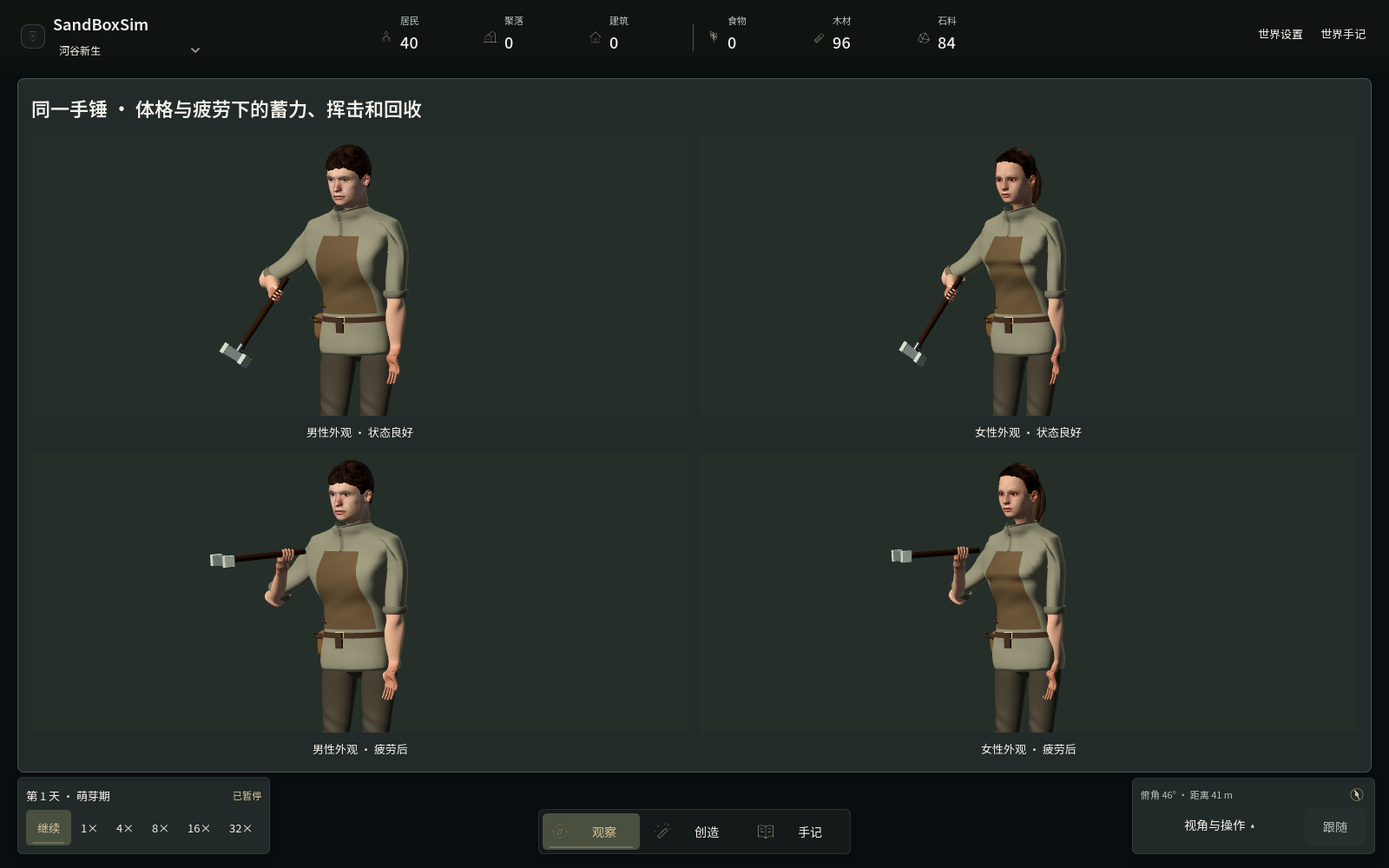
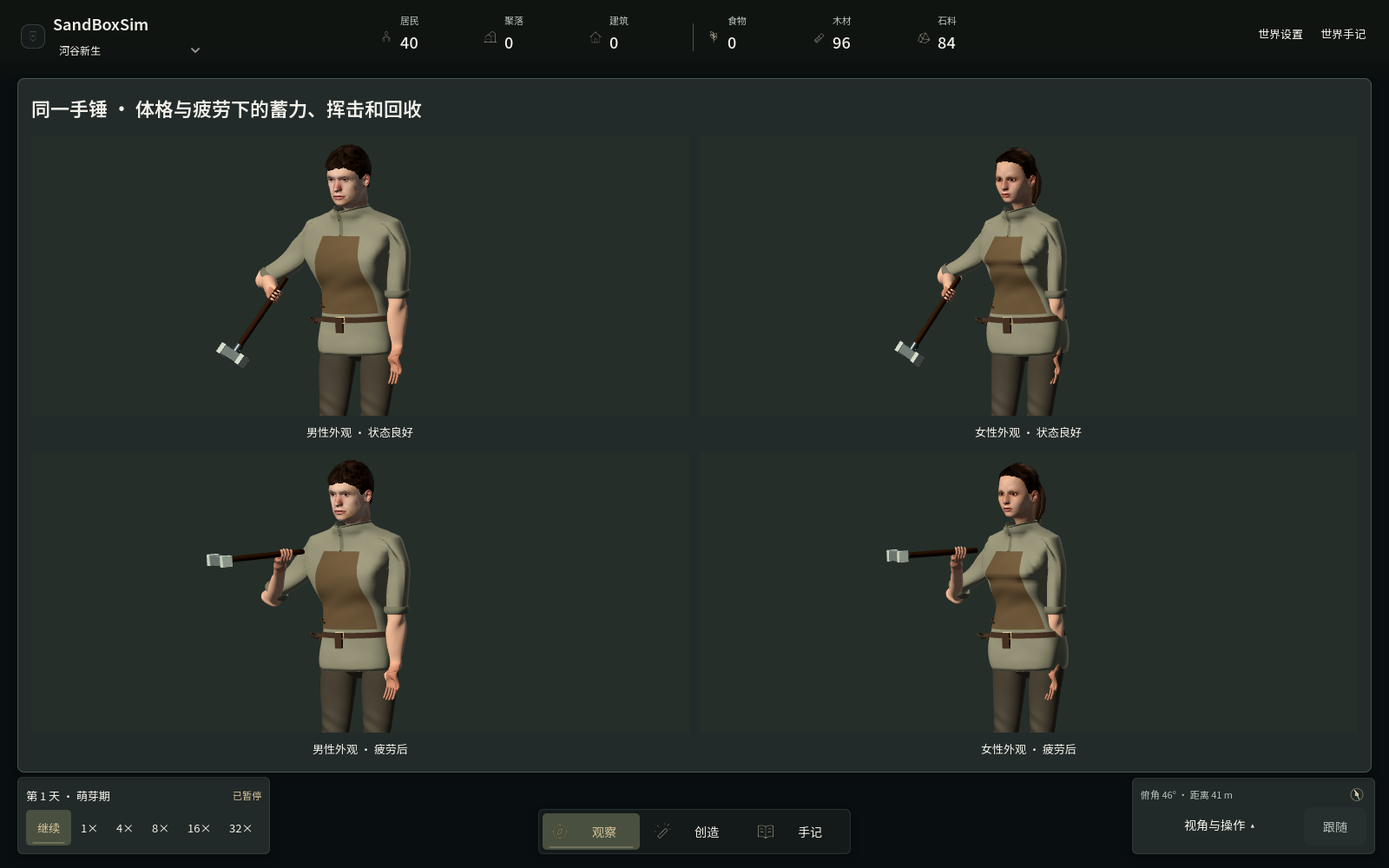
Refine adult facial regions and clothed body contours

diff --git a/src/SandBoxSim.Godot/NatureModels.BodyFrame.cs b/src/SandBoxSim.Godot/NatureModels.BodyFrame.cs
@@ -47,7 +47,7 @@ internal sealed partial class NatureModels
             {
                 // Cloth bridges local source hollows. Filter the ratio field
                 // before fitting, rather than embossing small body features.
-                var raw=new float[65*128];for(int i=0;i<raw.Length;i++)raw[i]=Math.Clamp(_frameFeminine[i]/_frameMale[i],.86f,1.16f);
+                var raw=new float[65*128];for(int i=0;i<raw.Length;i++)raw[i]=Math.Clamp(_frameFeminine[i]/_frameMale[i],.78f,1.20f);
                 _frameRatios=new float[raw.Length];
                 for(int rowIndex=0;rowIndex<65;rowIndex++)for(int column=0;column<128;column++)
                 {
@@ -64,12 +64,17 @@ internal sealed partial class NatureModels
         }
         // Restrained clothed waist/hip silhouette; arm roots and leg lengths
         // stay fixed. This is a presentation fit, not a demographic classifier.
-        float hip=MathF.Exp(-MathF.Pow((point.Y-.83f)/.085f,2));
-        float waist=MathF.Exp(-MathF.Pow((point.Y-1.02f)/.07f,2));
+        // The iliac/upper-thigh volume must survive the outer actor scale.
+        // The old uniform narrowing also narrowed the pelvis, erasing the
+        // shoulder-to-hip distinction in the clothed silhouette.
+        float hip=MathF.Exp(-MathF.Pow((point.Y-.86f)/.11f,2));
+        float waist=MathF.Exp(-MathF.Pow((point.Y-1.00f)/.085f,2));
         float limb=Mathf.SmoothStep(.135f,.185f,MathF.Abs(point.X))*Mathf.SmoothStep(.88f,.96f,point.Y);
-        float lateral=1+(.10f*hip-.055f*waist)*(1-limb);
-        float shoulder=1-.075f*MathF.Max(limb,Mathf.SmoothStep(1.12f,1.22f,point.Y));
-        return new(point.X*Mathf.Lerp(1,ratio,.35f)*lateral*shoulder,point.Y,point.Z*ratio);
+        float lateral=1+(.20f*hip-.085f*waist)*(1-limb);
+        float shoulder=1-.12f*MathF.Max(limb,Mathf.SmoothStep(1.12f,1.22f,point.Y));
+        float sideChest=1-.045f*MathF.Exp(-MathF.Pow((point.Y-1.12f)/.09f,2))*(1-limb);
+        float depth=1+(.055f*hip-.065f*waist)*(1-limb);
+        return new(point.X*Mathf.Lerp(1,ratio,.65f)*lateral*shoulder*sideChest,point.Y,point.Z*ratio*depth);
     }
     private Mesh FrameMesh(Mesh source,Transform3D space)
     {
@@ -104,7 +109,7 @@ internal sealed partial class NatureModels
             foreach(Node child in parent.GetChildren())
             {
                 if(child is not Node3D node||node==rig.Head||node==rig.Arms[0]||node==rig.Arms[1])continue;
-                if(node==rig.Holster||node==rig.PackMount)
+                if(node==rig.Holster||node==rig.PackMount||node==rig.SatchelMount)
                 {
                     var origin=space*node.Position;var fitted=FramePoint(origin);
                     if(node==rig.PackMount)fitted.Z+=FramePoint(new Vector3(0,1.15f,origin.Z)).Z-origin.Z;
@@ -127,7 +132,7 @@ internal sealed partial class NatureModels
         if(BodyFrame==0)return;
         // The fitted sleeve vertices, joint rest and inverse bind must move
         // together. Scaling the mesh alone leaves a male-width moving rig.
-        rig.ShoulderHalfWidth=.202f*.925f;
+        rig.ShoulderHalfWidth=.202f*.88f;
         var skin=new Skin();skin.AddBind(0,Transform3D.Identity);
         for(int side=0;side<2;side++)
         {
@@ -144,6 +149,7 @@ internal sealed partial class NatureModels
         var female=Resident(42,false,SandBoxSim.Core.Agents.JobType.Gatherer);
         try
         {
+            ValidateAdultContourSections(male,female);
             if(male.DetailedBodyMesh==female.DetailedBodyMesh||male.DistantBodyMesh==female.DistantBodyMesh)
                 throw new InvalidOperationException("Adult frames share their fitted body cache");
             if(female.ShoulderHalfWidth>=male.ShoulderHalfWidth-.01f||female.DetailedBodySkin==male.DetailedBodySkin)
@@ -151,6 +157,9 @@ internal sealed partial class NatureModels
             for(int side=0;side<2;side++)
                 if(!(female.ShoulderSkeleton.GetBoneRest(side+1)*female.DetailedBodySkin.GetBindPose(side+1)).IsEqualApprox(Transform3D.Identity))
                     throw new InvalidOperationException("Fitted shoulder rest and inverse bind disagree");
+            if(male.SatchelMount==null||female.SatchelMount==null||male.SatchelMount.Scale!=Vector3.One||female.SatchelMount.Scale!=Vector3.One||
+                male.SatchelMount.GetChild<MeshInstance3D>(0).Mesh.GetAabb()!=female.SatchelMount.GetChild<MeshInstance3D>(0).Mesh.GetAabb())
+                throw new InvalidOperationException("Body fitting stretches the rigid satchel instead of adapting its mount");
             foreach(var rig in new[]{male,female})
                 if(rig.Scale.X*rig.Head.Scale.X<.985f||rig.Scale.X*rig.Head.Scale.X>1.035f)
                     throw new InvalidOperationException("Body width distorts the adult head proportions");
@@ -159,7 +168,7 @@ internal sealed partial class NatureModels
             {
                 foreach(Node child in parent.GetChildren())
                 {
-                    if(child is not Node3D node||node==female.Head||node==female.Arms[0]||node==female.Arms[1]||node==female.Holster||node==female.PackMount)continue;
+                    if(child is not Node3D node||node==female.Head||node==female.Arms[0]||node==female.Arms[1]||node==female.Holster||node==female.PackMount||node==female.SatchelMount)continue;
                     if(node is MeshInstance3D mesh&&mesh!=female.BodySkin&&mesh.HasMeta("DistantMesh"))
                     {
                         var far=(Mesh)mesh.GetMeta("DistantMesh").AsGodotObject();
@@ -201,5 +210,77 @@ internal sealed partial class NatureModels
         }
         finally{male.Free();female.Free();_faceVariant=previous;_facePoints=null;_faceIndices=null;}
         GD.Print("BODY_FRAMES_PASS: source chest/waist/hip presentation, separate near/far caches, bounded forearm fit/Jacobian, exact wrist and animated limb lengths");
+    }
+    private static float ClothSectionWidth(Mesh mesh,float height,Color? cloth=null)
+    {
+        var arrays=mesh.SurfaceGetArrays(0);var points=arrays[(int)Mesh.ArrayType.Vertex].AsVector3Array();
+        var indices=arrays[(int)Mesh.ArrayType.Index].AsInt32Array();
+        var detail=arrays[(int)Mesh.ArrayType.TexUV2].AsVector2Array();
+        var colours=arrays[(int)Mesh.ArrayType.Color].AsColorArray();
+        float low=float.PositiveInfinity,high=float.NegativeInfinity;
+        for(int i=0;i<indices.Length;i+=3)
+        {
+            bool body=true;
+            for(int j=0;j<3;j++)
+            {
+                int v=indices[i+j];
+                // Exclude sleeves using their authored pattern coordinates;
+                // distant batching preserves dye in vertex colour instead.
+                if(detail.Length==points.Length&&detail[v].X>0)body=false;
+                if(cloth.HasValue&&(colours.Length!=points.Length||!colours[v].IsEqualApprox(cloth.Value)))body=false;
+            }
+            if(!body)continue;
+            for(int edge=0;edge<3;edge++)
+            {
+                var a=points[indices[i+edge]];var b=points[indices[i+(edge+1)%3]];
+                if((a.Y-height)*(b.Y-height)>0||MathF.Abs(b.Y-a.Y)<1e-8f)continue;
+                float x=Mathf.Lerp(a.X,b.X,(height-a.Y)/(b.Y-a.Y));
+                low=MathF.Min(low,x);high=MathF.Max(high,x);
+            }
+        }
+        if(!float.IsFinite(low)||!float.IsFinite(high))throw new InvalidOperationException("Adult garment has no measured cross-section");
+        return high-low;
+    }
+    private void ValidateAdultContourSections(ResidentRig male,ResidentRig female)
+    {
+        // Measure the final render meshes in world units, after all fitting and
+        // outer scale. A wider nominal pelvis is insufficient if actor scaling
+        // erases it, or the LOD silently restores the common source shape.
+        foreach(bool distant in new[]{false,true})
+        {
+            Mesh m=distant?male.DistantBodyMesh:male.DetailedBodyMesh,f=distant?female.DistantBodyMesh:female.DetailedBodyMesh;
+            Color? maleDye=distant?((ShaderMaterial)male.DetailedBodyMesh.SurfaceGetMaterial(0)).GetShaderParameter("dye").AsColor():null;
+            Color? femaleDye=distant?((ShaderMaterial)female.DetailedBodyMesh.SurfaceGetMaterial(0)).GetShaderParameter("dye").AsColor():null;
+            float maleHip=ClothSectionWidth(m,.82f,maleDye)*male.Scale.X,femaleHip=ClothSectionWidth(f,.82f,femaleDye)*female.Scale.X;
+            float maleWaist=ClothSectionWidth(m,1.00f,maleDye)*male.Scale.X,femaleWaist=ClothSectionWidth(f,1.00f,femaleDye)*female.Scale.X;
+            float maleShoulder=male.ShoulderHalfWidth*2*male.Scale.X,femaleShoulder=female.ShoulderHalfWidth*2*female.Scale.X;
+            if(femaleHip/maleHip<1.01f||femaleHip/maleHip>1.25f||femaleWaist/femaleHip>=maleWaist/maleHip-.055f||
+                femaleShoulder/femaleHip>=maleShoulder/maleHip-.12f)
+                throw new InvalidOperationException($"Adult silhouette difference lost in {(distant?"distant":"near")} mesh: hip {femaleHip/maleHip:F3}, waist/hip {maleWaist/maleHip:F3}/{femaleWaist/femaleHip:F3}, shoulder/hip {maleShoulder/maleHip:F3}/{femaleShoulder/femaleHip:F3}");
+            GD.Print($"ADULT_CONTOUR_SECTION: {(distant?"far":"near")} shoulder/hip={maleShoulder/maleHip:F3}/{femaleShoulder/femaleHip:F3}, waist/hip={maleWaist/maleHip:F3}/{femaleWaist/femaleHip:F3}, hip width={maleHip:F3}/{femaleHip:F3} m");
+        }
+        // All eight adult identities use the same smooth mapping for normals
+        // and attached facial parts. Test local invertibility across the actual
+        // authored skin, rather than only checking a few designed landmarks.
+        int previous=_faceVariant;
+        try
+        {
+            for(_faceVariant=0;_faceVariant<8;_faceVariant++)
+            {
+                var source=HumanData().Head.Points;
+                for(int i=0;i<source.Length;i+=11)
+                {
+                    var p=source[i];const float h=.0001f;
+                    var dx=(HumanPoint(p+Vector3.Right*h)-HumanPoint(p-Vector3.Right*h))/(2*h);
+                    var dy=(HumanPoint(p+Vector3.Up*h)-HumanPoint(p-Vector3.Up*h))/(2*h);
+                    var dz=(HumanPoint(p+Vector3.Back*h)-HumanPoint(p-Vector3.Back*h))/(2*h);
+                    float determinant=new Basis(dx,dy,dz).Determinant();
+                    if(!float.IsFinite(determinant)||determinant<.65f||determinant>1.45f)
+                        throw new InvalidOperationException("Adult regional face fit folds or over-stretches the source surface");
+                }
+            }
+        }
+        finally{_faceVariant=previous;}
+        GD.Print("ADULT_CONTOURS_PASS: final near/far clothed sections retain shoulder/pelvis and waist/hip differences; eight adult face maps remain locally invertible");
     }
 }

diff --git a/src/SandBoxSim.Godot/NatureModels.HumanAsset.cs b/src/SandBoxSim.Godot/NatureModels.HumanAsset.cs
@@ -124,10 +124,10 @@ internal sealed partial class NatureModels
         if(!ChildHead)
         {
             float jaw=MathF.Exp(-MathF.Pow((y+.065f)/.035f,2));
-            float amount=HumanFamily==2?-.035f:.060f;
+            float amount=HumanFamily==2?-.060f:.085f;
             derivative=derivative*(1+amount*jaw)-width*amount*jaw*2*(y+.065f)/(.035f*.035f);
             width*=1+amount*jaw;
-            float neck=MathF.Exp(-MathF.Pow((y+.112f)/.026f,2)),neckAmount=HumanFamily==2?-.035f:.080f;
+            float neck=MathF.Exp(-MathF.Pow((y+.112f)/.026f,2)),neckAmount=HumanFamily==2?-.055f:.10f;
             derivative=derivative*(1+neckAmount*neck)-width*neckAmount*neck*2*(y+.112f)/(.026f*.026f);
             width*=1+neckAmount*neck;
         }
@@ -153,16 +153,27 @@ internal sealed partial class NatureModels
             float cheek=MathF.Exp(-MathF.Pow((MathF.Abs(p.X)-.045f)/.022f,2)-MathF.Pow((p.Y+.018f)/.030f,2));
             float forehead=MathF.Exp(-MathF.Pow((p.Y-.070f)/.035f,2));
             float nose=MathF.Exp(-MathF.Pow(p.X/.018f,4)-MathF.Pow((p.Y+.008f)/.028f,2));
-            z-=front*(HumanFamily==2?-.0008f*brow+.0018f*cheek+.0013f*forehead:.0028f*brow+.0016f*chin+.0010f*nose-.0005f*cheek);
+            // Regional soft-tissue fit, in metres, rather than scaling an
+            // entire head. Preserve the eye aperture and use this very same
+            // map for eyelids, lips, hair, landmarks and the distant head.
+            z-=front*(HumanFamily==2?-.0012f*brow+.0030f*cheek+.0021f*forehead:.0040f*brow+.0028f*chin+.0016f*nose-.0007f*cheek);
             if(HumanFamily==2)
             {
                 // Shorten the lower facial segment without lifting the neck
                 // seam. Eye/lip parts and landmarks use this same mapping.
                 float lower=Mathf.SmoothStep(.025f,.090f,-p.Y)*(1-Mathf.SmoothStep(.105f,.145f,-p.Y));
-                y+=.0035f*lower;
+                y+=.0045f*lower;
             }
         }
-        return new(p.X*HumanWidth(p.Y,out _),y,z);
+        float x=p.X*HumanWidth(p.Y,out _);
+        if(!ChildHead)
+        {
+            float front=Mathf.SmoothStep(.025f,.060f,-p.Z);
+            float nasal=MathF.Exp(-MathF.Pow(p.X/.022f,4)-MathF.Pow((p.Y+.018f)/.035f,2));
+            float malar=MathF.Exp(-MathF.Pow((MathF.Abs(p.X)-.048f)/.025f,2)-MathF.Pow((p.Y+.020f)/.028f,2));
+            x*=1+front*(HumanFamily==2?-.045f*nasal+.022f*malar:.030f*nasal);
+        }
+        return new(x,y,z);
     }
 
     private Vector3 HumanNormal(Vector3 p,Vector3 n)

diff --git a/src/SandBoxSim.Godot/WorldView3D.cs b/src/SandBoxSim.Godot/WorldView3D.cs
@@ -451,7 +451,7 @@ public partial class WorldView3D : MapView
             ["landscapeSurface"]="coverage-mosaic-v6",["habitatDetail"]="stratified-meadow-v10",["vegetationSurface"]="engine-faced-v2",
             ["architecture"]="inset-joinery-v13",["garmentMaterial"]="relaxed-yoke-linen-v14",["shoulderMotion"]="supported-reach-v1",["reachMotion"]="palm-trajectory-v2",["interface"]="resident-framing-memory-v28",["wildFlora"]="arched-bramble-v1",["fontProfile"]="noto-packaged-v1",["interfaceVisible"]=Game.InterfaceVisible,
             ["animalPresentation"]="source-paw-contours-v11",["residentSurface"]="linear-skin-v9",["workEffort"]="relative-load-v1",["toolMotion"]="velocity-continuity-v1",["bodySupport"]="planted-sagittal-v1",["facialTiming"]="phrase-blink-v1",["handSurface"]="anatomical-regions-v1",["handlingMotion"]="cargo-priority-v3",["toolGeometry"]="forged-heads-v2",["cargoGeometry"]="bound-timber-v2",["equipmentAttachment"]="surface-holster-v2",["socialMotion"]="phrase-coordinated-v3",["waterSurface"]="constrained-bank-v6",["wristContour"]="source-oval-v1",
-            ["hairline"]="source-root-v1",["reedPanicle"]="connected-axis-v1",["bodyFrame"]="shoulder-bound-v2",["forearmProfile"]="tapered-volume-v1" };
+            ["hairline"]="source-root-v1",["reedPanicle"]="connected-axis-v1",["bodyFrame"]="regional-contours-v3",["faceContour"]="regional-adult-v2",["forearmProfile"]="tapered-volume-v1" };
         if(galleries is {Length:>0})quality["galleries"]=galleries;
         if(portrait!=null)quality["portrait"]=portrait;
         return quality;

diff --git a/src/SandBoxSim.Godot/NatureModels.Residents.cs b/src/SandBoxSim.Godot/NatureModels.Residents.cs
@@ -190,7 +190,6 @@ internal sealed partial class NatureModels
         var buckleCorners=new[]{buckle+new Vector3(-.0205f,-.0155f,0),buckle+new Vector3(.0205f,-.0155f,0),buckle+new Vector3(.0205f,.0155f,0),buckle+new Vector3(-.0205f,.0155f,0)};
         for(int edge=0;edge<4;edge++)FineBeam(rig.Torso,buckleCorners[edge],buckleCorners[(edge+1)%4],.004f,"#b8a17b");
         FineBeam(rig.Torso,buckle+new Vector3(-.006f,0,-.002f),buckle+new Vector3(.0205f,0,-.002f),.003f,"#b8a17b");
-        Detail(rig.Torso, "capsule", new Vector3(.23f, .7f, .075f), new Vector3(.075f, .065f, .055f), "#725b40");
         // The attributed head already includes a continuous anatomical neck.
         // A second torso-mounted neck intersects it when the head turns.
         // Expose the authored neck instead of crowding the jaw into the collar.
@@ -262,7 +261,9 @@ internal sealed partial class NatureModels
         if (child) { rig.Scale = new Vector3(.72f, .65f, .72f); rig.Head.Scale = Vector3.One * 1.15f; }
         else
         {
-            float frame=HumanFamily==2?.88f:.94f;
+            // Local chest/waist/pelvis fitting provides the silhouette. Keep
+            // outer width close enough that it does not erase the hip volume.
+            float frame=HumanFamily==2?.94f:.98f;
             rig.Scale = new Vector3(frame*(1 + ((variation >> 8) % 5 - 2f) * .025f), 1.005f + ((variation >> 12) % 5) * .012f, 1);
             rig.Head.Scale*=new Vector3(1/rig.Scale.X,1,1);
         }

diff --git a/src/SandBoxSim.Godot/NatureModels.Tailoring.cs b/src/SandBoxSim.Godot/NatureModels.Tailoring.cs
@@ -137,10 +137,11 @@ internal sealed partial class NatureModels
         {
             Sculpt(rig.Torso,FittedRibbon("shoulder-front",.81f,1.20f),Vector3.Zero,LeatherSurface("#665141"));
             Sculpt(rig.Torso,FittedRibbon("shoulder-back",.81f,1.20f,true),Vector3.Zero,LeatherSurface("#665141"));
-            var pouch=new Vector3(.23f,.80f,-.008f);
-            Sculpt(rig.Torso,SatchelBody(),pouch,LeatherSurface("#786346"),new(-MathF.PI/2,0,0));
-            Sculpt(rig.Torso,SatchelFlap(),pouch,LeatherSurface("#786346"));
-            Detail(rig.Torso,"sphere",pouch+new Vector3(0,.030f,SatchelDepth(0,.030f)-.005f),new(.010f,.010f,.008f),"#514237");
+            var pouch=rig.SatchelMount=new Node3D {Name="SatchelMount",Position=new(.23f,.80f,-.008f)};
+            rig.Torso.AddChild(pouch);
+            Sculpt(pouch,SatchelBody(),Vector3.Zero,LeatherSurface("#786346"),new(-MathF.PI/2,0,0));
+            Sculpt(pouch,SatchelFlap(),Vector3.Zero,LeatherSurface("#786346"));
+            Detail(pouch,"sphere",new(0,.030f,SatchelDepth(0,.030f)-.005f),new(.010f,.010f,.008f),"#514237");
         }
     }
     private void ValidateGarmentCuts()

diff --git a/src/SandBoxSim.Godot/NatureModels.Proportions.cs b/src/SandBoxSim.Godot/NatureModels.Proportions.cs
@@ -47,7 +47,7 @@ internal sealed partial class NatureModels
             foreach(Node child in parent.GetChildren())
             {
                 if(child is not Node3D node)continue;
-                if(node==rig.Head||node==rig.Arms[0]||node==rig.Arms[1]||node==rig.Holster||node==rig.PackMount)
+                if(node==rig.Head||node==rig.Arms[0]||node==rig.Arms[1]||node==rig.Holster||node==rig.PackMount||node==rig.SatchelMount)
                 {node.Position=ResidentRig.BodyPoint(node.Position);continue;}
                 var transform=space*node.Transform;
                 if(node is MeshInstance3D part&&part.Mesh!=null)part.Mesh=ProportionedMesh(part.Mesh,transform,true);

diff --git a/src/SandBoxSim.Godot/ResidentRig.cs b/src/SandBoxSim.Godot/ResidentRig.cs
@@ -11,7 +11,7 @@ internal partial class ResidentRig : Node3D
     public Node3D Torso=null!,Head=null!,Holster=null!;
     internal const float NeckPivotY=-.105f;
     internal Vector3 HeadRest;
-    public Node3D? Headwear,Grip,PackMount;
+    public Node3D? Headwear,Grip,PackMount,SatchelMount;
     public bool IsChild;
     public ResidentTool DefaultTool;
     public ResidentTool CurrentTool {get;private set;}

diff --git a/docs/development/models.md b/docs/development/models.md
@@ -120,7 +120,7 @@
 
 ## 成人体型与男女外观
 
-成人头部横向尺寸独立于身体的随机宽度，避免较窄体型把头脸一并压成长条；身份变化仍保留小幅头宽与头高差异。成年来源形体之上，男性外观保留较宽的下颌、较明显的眉弓、鼻梁与颏部，女性外观保留较轻的眉弓、较饱满的眼下颊部与更垂直的前额。下颌横向局部系数分别为 +6%／−3.5%，颈部局部系数为 +8%／−3.5%；女性下脸段最多上移 3.5 毫米，颈部接缝保持原高度。眉毛分别采用较平、较轻弧度的贴面路径。局部前后变化不超过约 3 毫米，皮肤、眼口、发片和挂点共用 `HumanPoint`，法线使用同一映射的逆转置。儿童不套用这些成人局部变化。
+成人头部横向尺寸独立于身体的随机宽度，避免较窄体型把头脸一并压成长条；身份变化仍保留小幅头宽与头高差异。成年来源形体之上，男性外观保留较宽的下颌、较明显的眉弓、鼻梁与颏部，女性外观保留较轻的眉弓、较饱满的眼下颊部与更垂直的前额。下颌横向局部系数分别为 +8.5%／−6%，颈部局部系数为 +10%／−5.5%；女性下脸段最多上移 4.5 毫米，颈部接缝保持原高度。鼻翼区域分别作最多 +3%／−4.5% 的局部宽度修饰，女性颊侧另有最多 2.2% 的柔和体积变化；眼球不作放大。眉弓、颏部、颊部和额头使用毫米尺度的连续场叠加，区别于整张脸统一放大或收窄。眉毛分别采用较平、较轻弧度的贴面路径。皮肤、眼口、发片和挂点共用 `HumanPoint`，法线使用同一映射的逆转置；自检在八种成人来源表面采样局部雅可比，拒绝翻折及过度拉伸。儿童不套用这些成人局部变化。
 
 脸型设计参考[三维面部区域形态研究](https://pmc.ncbi.nlm.nih.gov/articles/PMC10335371/)、[2022 年成人面部三维研究](https://pubmed.ncbi.nlm.nih.gov/35357226/)和[2026 年成人脸型形态研究](https://pubmed.ncbi.nlm.nih.gov/41827988/)。研究提示应结合多个区域及个体差异理解外观，不能单凭一个部位判定身份；项目中的区域幅度是美术选择。皮肤图集另按同一额部区域的面积加权线性亮度校准来源曝光，头脸和嘴唇的来源曝光及 RGB 参考值由同一额部区域测量，`tools/measure_head_tones.py` 可复算线性 RGB 与亮度。来源参考色用于把平均皮肤颜色映射到居民肤色，保留原图的局部色差；远景头部使用来源的相对色块，不把它当作贴图像素重复加曝光。肤色仍由居民身份控制，校准不抹去来源纹理或更换许可素材。Compatibility 下先将采样与染色转为线性 RGB，完成曝光／染色后再编码；Forward+／Mobile 使用其线性材质输入路径。远景按后端选择正确编码，避免重复伽马转换。依据见[Godot 着色器参考](https://docs.godotengine.org/en/stable/tutorials/shaders/shader_reference/spatial_shader.html)及[4.7 Compatibility 渲染实现](https://github.com/godotengine/godot/blob/4.7-stable/drivers/gles3/shaders/scene.glsl)。`tools/verify_skin_colour.py` 使用实际 GPU 像素和已知颜色验证生产函数；本地已验证 Compatibility，其他后端不能由这一结果推定。
 
@@ -146,11 +146,13 @@
 
 眨眼采用身份错开的确定性时间窗，65 毫秒闭合、155 毫秒睁开，窗口间轻度变化；不消费模拟随机流。交谈的点头、口部和手势共享表达节奏，口部在表达间留出停顿，并平滑收口。进食／饮水仅在手口接近及短暂恢复时保留较小口部动作。目前没有语音、音素口型或独立食物杯具。这些时间是游戏表现参数；设计参考[眨眼与交流研究](https://pmc.ncbi.nlm.nih.gov/articles/PMC6291193/)和[动作捕捉的言语手势整合研究](https://pmc.ncbi.nlm.nih.gov/articles/PMC7280344/)，没有使用论文中的动作数据或宣称人体测量精度。
 
-成年女性头脸族使用单独的穿衣体型映射，头部使用上述有界拟合，原手掌结构保持来源形状。`torso-feminine-cage.json` 从已有 MakeHuman CC0 女性青年宏目标导出，与男性支撑体共用 65×128 的截面网格及男性参考横向尺度，保留输入哈希。胸部局部轮廓按两种源支撑体的径向比值作有界拟合；腰部和胯部另使用有限的造型修饰，侧胸与袖部连续衔接。女性肩部横向位置采用原基准的 92.5%，肩关节、衣袖网格、骨骼静止变换和逆绑定矩阵同步适配；保持原臂长、腿长和动作目标。男性宽松上衣的前胸另作最多 9 毫米的平缓垂落修饰，减轻将支撑体胸肌轮廓直接印成圆鼓包的问题。
+成年女性头脸族使用单独的穿衣体型映射，头部使用上述有界拟合，原手掌结构保持来源形状。`torso-feminine-cage.json` 从已有 MakeHuman CC0 女性青年宏目标导出，与男性支撑体共用 65×128 的截面网格及男性参考横向尺度，保留输入哈希。胸部局部轮廓按两种源支撑体的径向比值作有界拟合，过滤后的源比值限制在 0.78–1.20；横向、前后深度分开控制，使胸廓和背部不再仅继承相同椭圆。腰部、骨盆与大腿上缘用相互重叠的连续区域拟合，髋部横向场以 0.86 米为中心、最多增加 20%，腰部横向场以 1.00 米为中心、最多收束 8.5%；下摆平缓衔接，袖部不应用腰胯增量。外层宽度基准分别为男性 0.98、女性 0.94，并保留身份的 ±5% 变化，避免统一收窄女性身体时再次抹去骨盆体积。这些系数不是人体测量百分位。
 
-上衣、缝边、纽扣、腰带及衣面背带共用同一映射，避免只改变衣身而让附件悬浮。工具和背包保持刚性形状，挂点随体型适配；近远景身体使用不同缓存，切换后保持体型。腿部仍共用原关节位置；肩部保持相同拓扑，女性外观使用适配后的静止位置和独立绑定。三种衣装的运动检查分别覆盖男女成人体型，检查变形后的袖口、中心、领口及腰部约束。腰胯修饰和体积限制为美术参数，不是人体测量公式。
+女性肩部横向位置采用原基准的 88%，肩关节、衣袖网格、骨骼静止变换和逆绑定矩阵同步适配；保持原臂长、腿长和动作目标。男性宽松上衣的前胸另作最多 9 毫米的平缓垂落修饰，减轻将支撑体胸肌轮廓直接印成圆鼓包的问题。`ADULT_CONTOURS_PASS` 对最终近／远衣装的真实三角面作水平截面，排除袖片及不同材质附件，测量外层缩放后的衣装宽度与肩关节间距，检查腰／髋及肩／髋差异；这里的比值是穿衣造型宽度，不是围度、裸身解剖测量或识别准确率。
 
-[NASA 人体整合设计手册](https://www.nasa.gov/wp-content/uploads/2023/03/human-integration-design-handbook-revision-1.pdf)说明了男女尺寸范围与个体差异；[肩胛形态研究](https://pmc.ncbi.nlm.nih.gov/articles/PMC11470781/)也区分了尺寸与形状因素。本项目保留身份决定的宽度、身高变化，并通过头脸、躯干及小臂共同表现外观。这里是两种成人表现轮廓，不是模拟内核的性别系统或对角色身份的判断；儿童不应用成人女性躯干映射，目前也没有完整年龄、体脂或肌肉量生成系统。
+上衣、缝边、纽扣、腰带及衣面背带共用同一映射，避免只改变衣身而让附件悬浮。工具、背包和腰包保持自身形状，挂点随体型适配；`SatchelMount` 使腰包不参与衣装的非线性缩放，自检核对两种体型上的包体局部边界一致。近远景身体使用不同缓存，切换后保持体型。腿部仍共用原关节位置；肩部保持相同拓扑，女性外观使用适配后的静止位置和独立绑定。三种衣装的运动检查分别覆盖男女成人体型，检查变形后的袖口、中心、领口及腰部约束。腰胯修饰和体积限制为美术参数，不是人体测量公式。
+
+[NASA 人体整合设计手册](https://www.nasa.gov/wp-content/uploads/2023/03/human-integration-design-handbook-revision-1.pdf)说明了男女尺寸范围与个体差异；[肩胛形态研究](https://pmc.ncbi.nlm.nih.gov/articles/PMC11470781/)也区分了尺寸与形状因素。[FAA 人因设计指南第 14 章](https://rosap.ntl.bts.gov/view/dot/12782/dot_12782_DS1.pdf)区分肩宽、髋宽等尺寸，并要求考虑衣着及多项尺寸的关联；项目用它指导分区与比较方式，没有把某一个样本均值当作所有人的比例。本项目保留身份决定的宽度、身高变化，并通过头脸、躯干及小臂共同表现外观。这里是两种成人表现轮廓，不是模拟内核的性别系统或对角色身份的判断；儿童不应用成人女性躯干映射，目前也没有完整年龄、体脂或肌肉量生成系统。
 
 `--panel=body-frames` 显示相同衣色、肤色下的胸腰正侧面，`--panel=forearm-frames` 显示两种外观的小臂掌侧、背侧和侧面。图册采用实际游戏模型，参数与采样见[配图索引](../images/README.md)。
 

diff --git a/docs/images/README.md b/docs/images/README.md
@@ -6,11 +6,11 @@
 
 ## 当前配图
 
-`resident-face-frames.png` 为男女成人外观的正面及三刻面，来自公开 `visual-face-frames` 第 90 帧，1600×1000。身份 17 与 55 使用相同衣色、肤色及布光；头宽独立于身体随机宽度，来源额部 RGB 参考及曝光在线性颜色空间校准，保留照片局部色差。`resident-work-effort.gif` 为同一手锤的男女外观、良好／疲劳状态四格对照，1280×800、102 帧、6.8 秒，按 60 Hz 每四步采样一次；`resident-work-effort.png` 为公开场景第 180 帧，1600×1000。本轮同步重采成人体型图与四段动作 GIF。作业对照镜头为正交尺寸 1.15、目标 (0, 1.05, 0)，展示上身与握柄。两套公开场景均冻结模拟，动画照常推进；系数是表现参数，不能由图像推断真实力量。
+`resident-face-frames.png` 为男女成人外观的正面及三刻面，来自公开 `visual-face-frames` 第 90 帧，1600×1000。身份 17 与 55 使用相同衣色、肤色及布光；头宽独立于身体随机宽度，来源额部 RGB 参考及曝光在线性颜色空间校准，保留照片局部色差。`resident-work-effort.gif` 为同一手锤的男女外观、良好／疲劳状态四格对照，1280×800、102 帧、6.8 秒，按 60 Hz 每四步采样一次；`resident-work-effort.png` 为公开场景第 180 帧，1600×1000。静态头脸、体型和作业图反映当前成人分区轮廓，GIF 保留其控制器采样版本。作业对照镜头为正交尺寸 1.15、目标 (0, 1.05, 0)，展示上身与握柄。两套公开场景均冻结模拟，动画照常推进；系数是表现参数，不能由图像推断真实力量。
 
-`resident-body-frames.png`、`resident-forearm-frames.png` 为当前成人穿衣体型、小臂肌腹与腕部过渡的实机对照，分别来自公开场景 `visual-body-frames.json`、`visual-forearm-frames.json` 的第 90 帧，1600×1000。两名居民为同衣色、肤色的身份 17 与 55；体型图正交尺寸 1.3，目标点 (0, 1.07, 0)，模型转向前侧，正／侧面相机相对位置分别为 (0.05, 0.04, 4)、(4, 0.04, 0.2)。小臂图正交尺寸 0.46，使用实际分离观察网格，不代表游戏中存在开放切口。动作静态图和生活图另按当前运行模型等待 120 帧采样；四段 GIF 已按当前成人肩袖与速度跟踪实现重新采样。
+`resident-body-frames.png`、`resident-forearm-frames.png` 为成人穿衣体型、小臂肌腹与腕部过渡的实机对照，分别来自公开场景 `visual-body-frames.json`、`visual-forearm-frames.json` 的第 90 帧，1600×1000。体型、头脸、小臂及作业状态静态对照使用 `regional-contours-v3`／`regional-adult-v2`：肩腰髋分区、头脸局部体积以及保持形状的独立腰包挂点。两名居民为同衣色、肤色的身份 17 与 55；体型图正交尺寸 1.3，目标点 (0, 1.07, 0)，模型转向前侧，正／侧面相机相对位置分别为 (0.05, 0.04, 4)、(4, 0.04, 0.2)。小臂图正交尺寸 0.46，使用实际分离观察网格，不代表游戏中存在开放切口。其他人物图片和动作 GIF 保留各自采样；GIF 说明控制器的运动节奏，成人局部轮廓以这组静态对照为准。
 
-四段动作演示均使用当前 palm-trajectory-v2、velocity-continuity-v1、planted-sagittal-v1、phrase-blink-v1 与肩部绑定实现；相位与疲劳响应另见 resident-work-effort.gif。resident-tool-motion.gif 为单人手锤取出、作业与返回携带；resident-social-motion.gif 展示交谈、递交与进食；resident-social-side-motion.gif 为同样动作的侧面。三段均为 1280×800 原生客户端的 102 帧，程序每帧采样前按 60 Hz 推进四步，GIF 总时长 6.8 秒；每段覆盖图册的一个完整循环，不是帧率测试或人体实测。侧面相机相对 (0, 1, 0) 为 (4, 0.06, 1)，交谈正面为 (0.12, 0.06, 4)，两段交谈图正交尺寸均为 1.6。手锤全身演示使用图册当前镜头：正交尺寸 1.85、目标 (0, 0.83, 0)，相对位置 (0, 0.07, 4)，完整展示脚踝与膝部配合。resident-social.png 为生活动作第 30 个采样帧。画面使用上一帧手掌／肘部参考、较缓起手与连续收手的实际运行实现，没有用概念图替代。
+四段动作演示的控制器版本为 palm-trajectory-v2、velocity-continuity-v1、planted-sagittal-v1、phrase-blink-v1 与肩部绑定实现；相位与疲劳响应另见 resident-work-effort.gif。resident-tool-motion.gif 为单人手锤取出、作业与返回携带；resident-social-motion.gif 展示交谈、递交与进食；resident-social-side-motion.gif 为同样动作的侧面。三段均为 1280×800 原生客户端的 102 帧，程序每帧采样前按 60 Hz 推进四步，GIF 总时长 6.8 秒；每段覆盖图册的一个完整循环，不是帧率测试或人体实测。侧面相机相对 (0, 1, 0) 为 (4, 0.06, 1)，交谈正面为 (0.12, 0.06, 4)，两段交谈图正交尺寸均为 1.6。手锤全身演示使用图册当前镜头：正交尺寸 1.85、目标 (0, 0.83, 0)，相对位置 (0, 0.07, 4)，完整展示脚踝与膝部配合。resident-social.png 为生活动作第 30 个采样帧。画面使用上一帧手掌／肘部参考、较缓起手与连续收手的实际运行实现，没有用概念图替代。
 
 当前人物观察窗、衣装、配件、动作和社交图使用 relaxed-yoke-v7：胸腹松量连续衔接，减弱胸前肌肉状褶皱，后肩拼接线由贴面短针脚表示；头部整体上移 18 毫米。衣装近景沿用相同镜头，便于观察颈部、下颌和领口关系。动物、建筑与环境专题保留各自采样。
 
@@ -61,7 +61,7 @@
 
 建筑、人物动物、面部、衣装、生态、网格近景、地形远近景、工具库、现场手记、人物手记、镜头面板、展开观察窗及其手部／全身视图更新于 2026-10-27；花甸专题保留 2026-10-26 采样，均为原生 Godot 渲染。普通配图为 1600×1000；紧凑工具库为 1280×800，灌丛独立近景为 1200×900，使用同一图册模型、正交尺寸 0.27、目标点 (0.229, 0.591, -0.022)，等待 120 帧后采样。工具库两图在实际选择四种工具后采样，紧凑图记录菜单展开状态。镜头面板另检查实际按钮焦点下的空格暂停／继续、Esc 返回和全景平移后的选中反馈。图册使用实际游戏网格、独立展示环境，模拟暂停，等待 120 帧后采样；普通世界预览等待 2 秒。生活／决策／侧光、物资与工具状态由实际命中检查的鼠标事件回放后采样，回放先用空格暂停世界，并核对工具库实际可见、手记收起；缩略入口另检查 Enter 打开、Esc 焦点返回，以及手部背面观察关闭后仍显示面部；改名检查实际键盘保存、取消和换居民丢弃草稿。沉浸图使用 F10 后采样。手部与全身分别来自公开 `ui-portrait-window` 场景第 130／170 帧。界面和普通世界使用种子 839102、40 人，无预先天数推进；花甸预览暂停模拟。
 
-当前运行另记录 `reachMotion=palm-trajectory-v2`、`workEffort=relative-load-v1`、`bodyFrame=shoulder-bound-v2` 和 `toolMotion=velocity-continuity-v1`；旧专题保留采样时实现，不能据新标签重解释旧图。字体策略为 `fontProfile=noto-packaged-v1`。对应 `interface=resident-framing-memory-v28`、`architecture=inset-joinery-v13`、`animalPresentation=source-paw-contours-v11`、`landscapeSurface=coverage-mosaic-v6`、`habitatDetail=stratified-meadow-v10`、`residentSurface=linear-skin-v9`、`vegetationSurface=engine-faced-v2`、`wildFlora=arched-bramble-v1`、`waterSurface=constrained-bank-v6`、`handSurface=anatomical-regions-v1`、`portrait.studio=continuous-inspector-v9`、`wristContour=source-oval-v1` 、`hairline=source-root-v1`、`reedPanicle=connected-axis-v1` 和 `garmentMaterial=relaxed-yoke-linen-v14`。动物半闭眼／全闭眼的强制参数图仅用于本地检查，不替代这里的正常运行配图。
+当前运行另记录 `reachMotion=palm-trajectory-v2`、`workEffort=relative-load-v1`、`bodyFrame=regional-contours-v3`、`faceContour=regional-adult-v2` 和 `toolMotion=velocity-continuity-v1`；旧专题保留采样时实现，不能据新标签重解释旧图。字体策略为 `fontProfile=noto-packaged-v1`。对应 `interface=resident-framing-memory-v28`、`architecture=inset-joinery-v13`、`animalPresentation=source-paw-contours-v11`、`landscapeSurface=coverage-mosaic-v6`、`habitatDetail=stratified-meadow-v10`、`residentSurface=linear-skin-v9`、`vegetationSurface=engine-faced-v2`、`wildFlora=arched-bramble-v1`、`waterSurface=constrained-bank-v6`、`handSurface=anatomical-regions-v1`、`portrait.studio=continuous-inspector-v9`、`wristContour=source-oval-v1` 、`hairline=source-root-v1`、`reedPanicle=connected-axis-v1` 和 `garmentMaterial=relaxed-yoke-linen-v14`。动物半闭眼／全闭眼的强制参数图仅用于本地检查，不替代这里的正常运行配图。
 
 地形远景使用普通世界入口；近景加 `--view=near`。两图用于查看实际扫描草叶地面、山坡、岸线和贴地，属于普通客户端采样，不作为固定帧评测成绩。
 

diff --git a/docs/development/benchmark.md b/docs/development/benchmark.md
@@ -140,7 +140,7 @@ Godot 自检包含协议拒绝测试、模型/握持几何和 UI 状态；Python
 
 `reachMotion=palm-trajectory-v2` 记录手掌轨迹过渡、朝向插值、错开的社交手势与循环进食表现。动作轨迹改变需要重采相同场景的视觉及耗时基线，不能与旧动作混作效率对照。
 
-`bodyFrame=source-clothed-v1` 和 `forearmProfile=tapered-volume-v1` 记录成人穿衣体型与小臂体积拟合。它们改变轮廓和模型构建成本，视觉及性能对照须使用同一版本、居民身份与近远景条件。
+`bodyFrame=regional-contours-v3`、`faceContour=regional-adult-v2` 和 `forearmProfile=tapered-volume-v1` 记录成人肩腰髋分区、头脸区域与小臂体积拟合。它们改变轮廓和模型构建成本，视觉及性能对照须使用同一版本、居民身份与近远景条件。
 
 无窗口自检的花株接地检查使用 CPU 保存的实例位置；图形模式额外核对 GPU 实例变换。渲染服务器的占位读回不作为几何证据。快捷操作检查覆盖居民、鹿狼和土地的真实目标位置、失效实体身份拒绝、靠近的实际相机距离、人物观察窗／土地手记及观察纯度。
 
@@ -162,6 +162,6 @@ Godot 自检包含协议拒绝测试、模型/握持几何和 UI 状态；Python
 
 `workEffort=relative-load-v1` 标识按工具、个体表现系数、真实疲劳及健康驱动的作业节奏与躯干配合。`visual-work-effort` 对照同一手锤的男女成人外观与状态，`visual-face-frames` 提供正面及三刻面。面部曝光与局部拟合、动作减速和节奏均改变，需要重新采样；这些展示场景不测量真实力量，也不构成 RSI 结果。请求 Schema 的面板枚举与客户端公开白名单一致，工具回归同时核对所有公开场景。
 
-`bodyFrame=shoulder-bound-v2` 包含女性肩袖静止位置／逆绑定同步及男性前胸垂落修饰；`toolMotion=velocity-continuity-v1` 标识 IK 前的位置／朝向速度跟踪、弧形蓄力与收纳到位判定。`work-effort` 镜头改为正交尺寸 1.15、目标 (0, 1.05, 0)，用于看清头肩和握柄；旧构图不能直接混作视觉或效率基线。
+`bodyFrame=regional-contours-v3` 包含肩袖静止位置／逆绑定同步、男性前胸垂落、女性胸廓／腰胯分区以及保持形状的独立腰包挂点；`faceContour=regional-adult-v2` 标识眉弓、鼻翼、颊部、下颌与颈部的区域拟合。`toolMotion=velocity-continuity-v1` 标识 IK 前的位置／朝向速度跟踪、弧形蓄力与收纳到位判定。`work-effort` 镜头为正交尺寸 1.15、目标 (0, 1.05, 0)，用于看清头肩和握柄；不同构图或体型版本不能直接混作视觉或效率基线。`ADULT_CONTOURS_PASS` 的穿衣截面检查仅约束本项目的几何与 LOD，不是性别识别、真人相似度或 RSI 得分。
 
 `bodySupport=planted-sagittal-v1` 和 `facialTiming=phrase-blink-v1` 分别记录劳动支撑姿态、身份错开的眨眼及表达节奏；`residentSurface=linear-skin-v9` 包含实测来源 RGB 参考与正确颜色空间校准。动作、头脸像素和成本均改变，需要重新采样。`verify_skin_colour.py` 是需真实显示设备的独立颜色回归，不输出视觉问答分数或 RSI 结论。

diff --git a/docs/development/human-assets.md b/docs/development/human-assets.md
@@ -97,7 +97,7 @@ Godot 三平台导出包含模型 JSON、许可文本与导入纹理；发行包
 
 ## 眼部与领口的运行细化
 
-成人头脸在来源网格上叠加有界的眉弓、颊部、下颌和颏部拟合；眼口、发片与挂点共享形变，来源文件及哈希保持固定。头宽不继承身体随机宽度，成人下颌、颈部和下脸段分别采用有界区域拟合。三个来源皮肤图集另作额部线性亮度曝光校准，由 `tools/measure_head_tones.py` 读取已校验的 JSON 和 PNG 复算，脸与嘴唇使用实测来源参考色及线性运算；头部 LOD 的相对顶点色单独正确编码，不重复套用贴图曝光；儿童保持原材质策略。当前形态、研究依据及正面／三刻面入口见[成人外观说明](models.md)。
+成人头脸在来源网格上叠加有界的眉弓、鼻翼、颊部、下颌和颏部拟合；眼口、发片与挂点共享形变，来源文件及哈希保持固定。头宽不继承身体随机宽度，成人下颌、颈部和下脸段分别采用有界区域拟合，八种成人表面采样检查局部映射不翻折。穿衣体型按肩线、胸廓、腰部和骨盆分区，保留源胸廓比值、独立肩部绑定及原有臂腿长度；腰包挂点适配身体，自身网格不作非线性变形。三个来源皮肤图集另作额部线性亮度曝光校准，由 `tools/measure_head_tones.py` 读取已校验的 JSON 和 PNG 复算，脸与嘴唇使用实测来源参考色及线性运算；头部 LOD 的相对顶点色单独正确编码，不重复套用贴图曝光；儿童保持原材质策略。当前形态、研究依据及正面／三刻面入口见[成人外观说明](models.md)。
 
 眼球继续使用同源纹理与拓扑，`NatureModels.EyeOptics.cs` 只在中央加入有界角膜起伏并修正法线；没有替换为通用球体。头颈保留来源拓扑并应用上述成人局部拟合，衣服前领为喉部留出开口并重新烘焙三套服装，面部解剖与动作挂点仍来自同一来源。虹膜与角膜围绕来源眼心一起作小幅视线转动，替代单独平移眼部贴图；成人与儿童仍共享各自变体的几何缓存。角膜网格由变体缓存复用，详见[模型系统](models.md)。观察窗的柔光与侧光仅切换隔离场景的真实灯光，不消耗模拟状态或替换人物。
 
